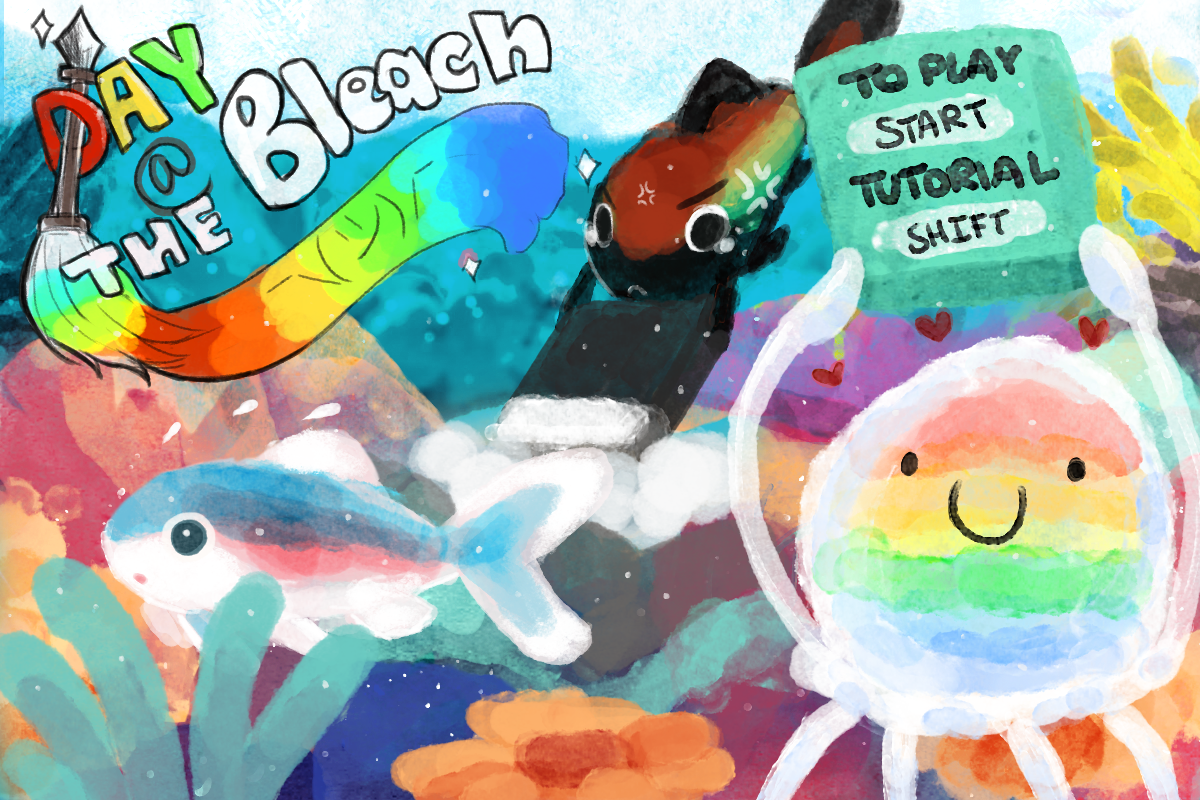
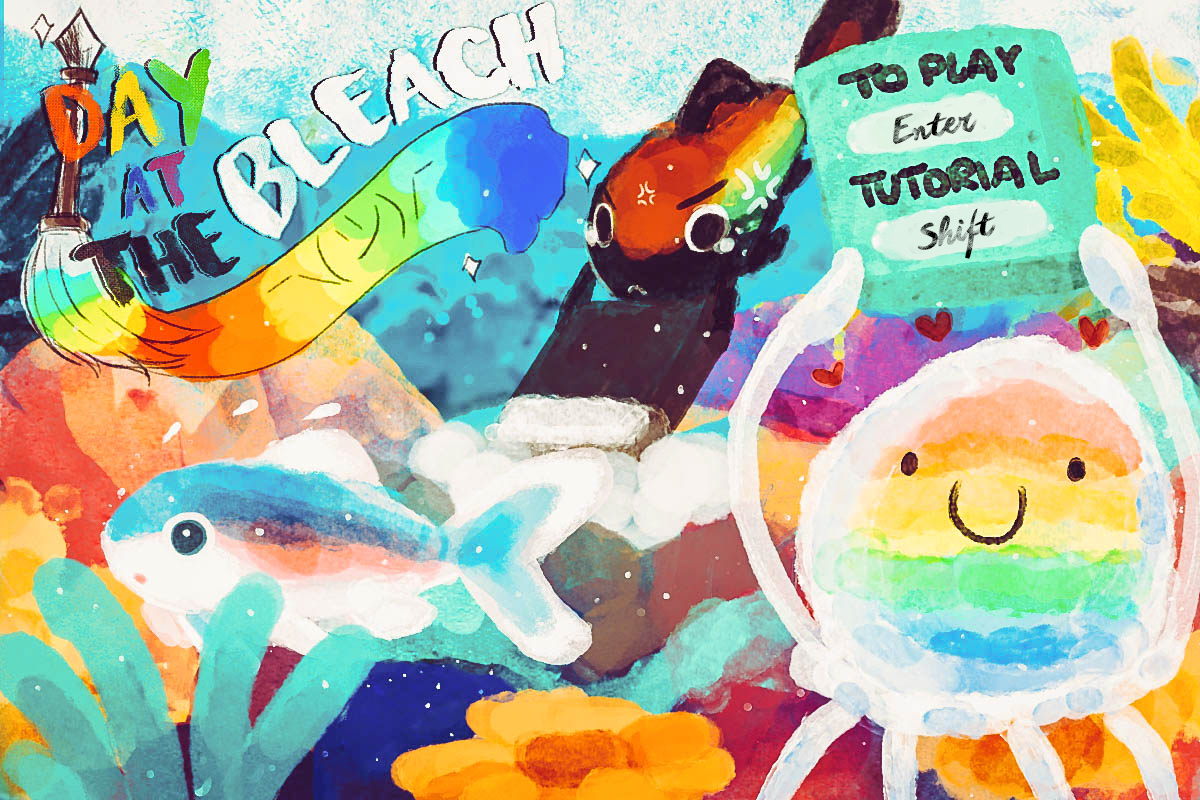
updated title, tutorial; no scroll in css stylesheet
-title now says ENTER instead of START
-tutorials now say ENTER instead of START; QE buttons added; instance of the player added to tutorial
-disabled scrollbar via css stylesheet

diff --git a/js/main.js b/js/main.js
@@ -64,7 +64,7 @@ gameObj.Preloader.prototype = {
         this.load.image('tutorial1', 'tutorial1.png');
         this.load.image('tutorial2', 'tutorial2.png');
         this.load.image('tutorial3', 'tutorial3.png');
-        this.load.image('titlebg', 'TitleV2.jpg');
+        this.load.image('titlebg', 'title.png');
         //load static gameover image
         this.load.image('gameoverbg', 'gameover.png');                
         //vibrantcoral_1
@@ -280,10 +280,12 @@ gameObj.Tutorial.prototype = {
         this.background = game.add.tileSprite(0, 0, 1200, 800, 'tutorial1');
 
     	this.cursors = game.input.keyboard.createCursorKeys();
+        this.qKey = game.input.keyboard.addKey(Phaser.Keyboard.Q);
+        this.eKey = game.input.keyboard.addKey(Phaser.Keyboard.E);
         this.enterKey = game.input.keyboard.addKey(Phaser.Keyboard.ENTER);
         this.zeroKey = game.input.keyboard.addKey(Phaser.Keyboard.ZERO);
         this.shiftKey = game.input.keyboard.addKey(Phaser.Keyboard.SHIFT);
-        //this.player = new Player(this.game, 'fishy', 'fishy1', 'brushSon', 'brush_flipped');
+        this.player = new Player(this.game, 'fishy', 'fishy1', 'brushSon', 'brush_flipped');
     },
     update: function () {
         //if you press Enter, you go to Play screen
@@ -307,26 +309,31 @@ gameObj.Tutorial.prototype = {
             this.bgm4Sound.stop();
         }
 
-        if(this.cursors.right.justPressed() && tutstate == 1) {
+        if(this.eKey.justPressed() && tutstate == 1) {
             this.switchSfx.play('',0,1,false,true);
         	tutstate = 2;
-        	this.background = game.add.tileSprite(0, 0, 1200, 800, 'tutorial2');
-        } else if (this.cursors.left.justPressed() && tutstate == 2){
+            this.background.loadTexture('tutorial2');
+        	//this.background = game.add.tileSprite(0, 0, 1200, 800, 'tutorial2');
+        } else if (this.qKey.justPressed() && tutstate == 2){
             this.switchSfx.play('',0,1,false,true);
         	tutstate = 1;
-        	this.background = game.add.tileSprite(0, 0, 1200, 800, 'tutorial1');
-        } else if (this.cursors.right.justPressed() && tutstate == 2){
+            this.background.loadTexture('tutorial1');
+        	//this.background = game.add.tileSprite(0, 0, 1200, 800, 'tutorial1');
+        } else if (this.eKey.justPressed() && tutstate == 2){
             this.switchSfx.play('',0,1,false,true);
         	tutstate = 3;
-	        this.background = game.add.tileSprite(0, 0, 1200, 800, 'tutorial3');
-        } else if (this.cursors.left.justPressed() && tutstate == 3){
+            this.background.loadTexture('tutorial3');
+	        //this.background = game.add.tileSprite(0, 0, 1200, 800, 'tutorial3');
+        } else if (this.qKey.justPressed() && tutstate == 3){
             this.switchSfx.play('',0,1,false,true);
         	tutstate = 2;
-        	this.background = game.add.tileSprite(0, 0, 1200, 800, 'tutorial2');        	
-        } else if (this.cursors.right.justPressed() && tutstate ==3){
+            this.background.loadTexture('tutorial2');
+        	//this.background = game.add.tileSprite(0, 0, 1200, 800, 'tutorial2');        	
+        } else if (this.eKey.justPressed() && tutstate ==3){
             this.switchSfx.play('',0,1,false,true);
         	tutstate = 1;
-        	this.background = game.add.tileSprite(0, 0, 1200, 800, 'tutorial1');        	
+            this.background.loadTexture('tutorial1');
+        	//this.background = game.add.tileSprite(0, 0, 1200, 800, 'tutorial1');        	
         }
         ;
 
@@ -889,7 +896,7 @@ gameObj.GameOverScreen.prototype = {
 };
 
 // init game
-var game = new Phaser.Game(1200, 800, Phaser.AUTO, 'gamecanvas');
+var game = new Phaser.Game(1200, 800, Phaser.CANVAS, 'gamecanvas');
 game.state.add('Boot', gameObj.Boot);
 game.state.add('Preloader', gameObj.Preloader);
 game.state.add('Title', gameObj.Title);

diff --git a/css/styles.css b/css/styles.css
@@ -1,6 +1,7 @@
 @import url('https://fonts.googleapis.com/css?family=Alegreya Sans SC');
 @import url('https://fonts.googleapis.com/css?family=Press+Start+2P');
 
+html, body, #gamecanvas {margin: 0; height: 100%; padding: 0; overflow: hidden}
 
 body {
 	font-family: Alegreya Sans SC;
